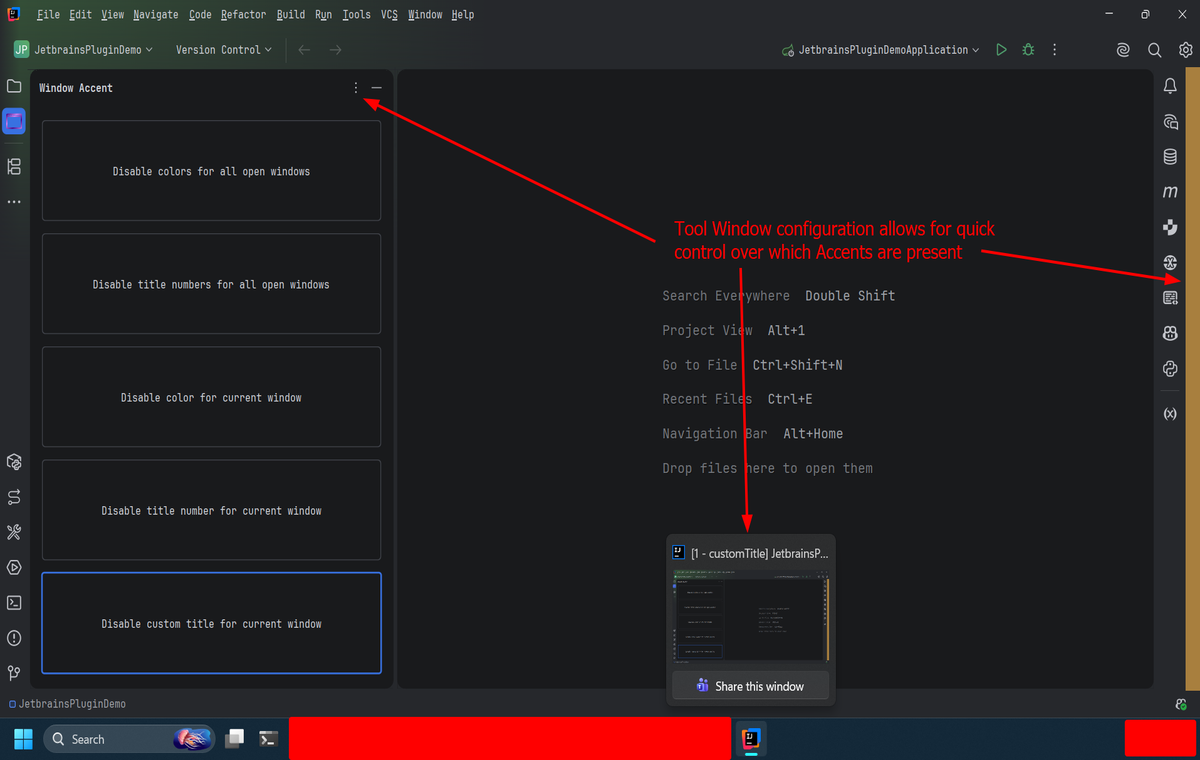
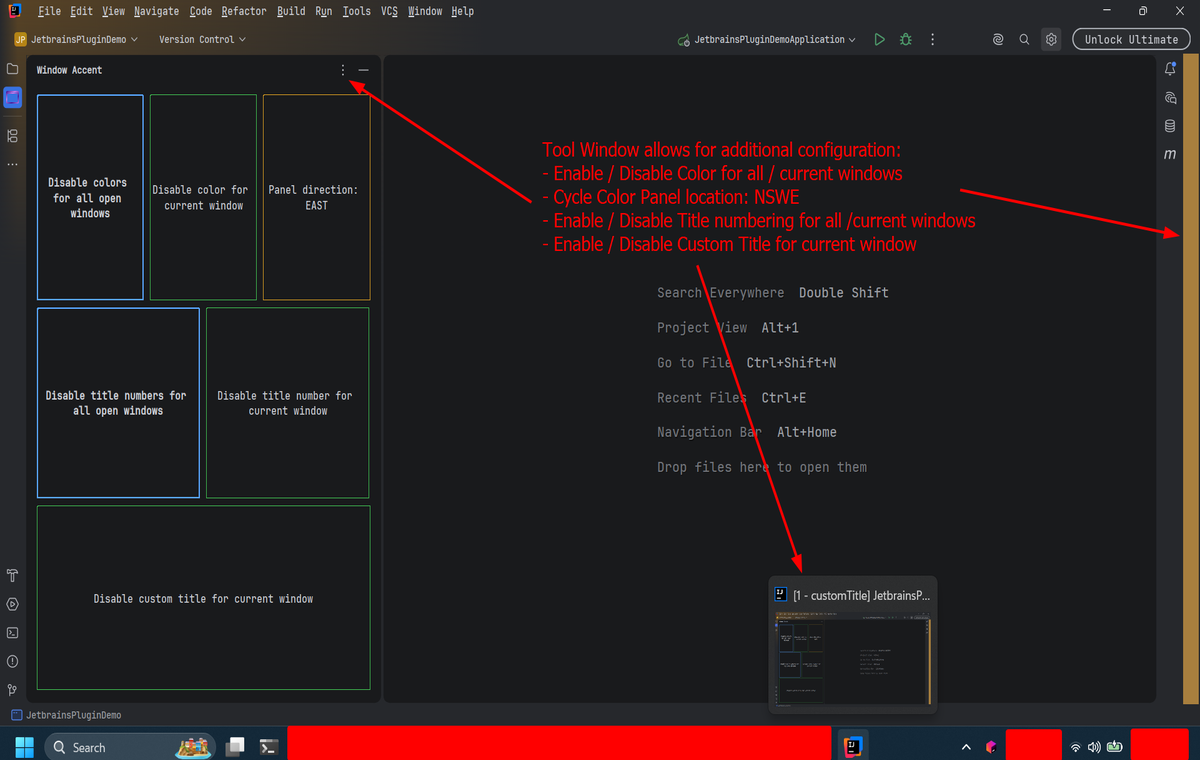
Task/allow choose color panel direction in tool window (#61)
* Github Copilot: Add button to Tool Window to cycle between Panel locations and reorganise tool window button locations

* Github Copilot: ensure that tool window text wraps in button

* Add tooltip to switch panel direction button

* Github Copilot: Improve Tool Window Button meaning by coloring and stylising the buttons to match the purpose

* Update Screenshot of the Tool Window Settings

* Update Changelog

diff --git a/src/main/kotlin/com/window_accent/configuration/tool_window/WindowAccentToolWindowFactory.kt b/src/main/kotlin/com/window_accent/configuration/tool_window/WindowAccentToolWindowFactory.kt
@@ -4,14 +4,20 @@ import com.intellij.openapi.project.DumbAware
 import com.intellij.openapi.project.Project
 import com.intellij.openapi.wm.ToolWindow
 import com.intellij.openapi.wm.ToolWindowFactory
+import com.intellij.ui.JBColor
 import com.intellij.ui.content.ContentFactory
 import com.window_accent.configuration.persistence.WindowCustomTitleStateService
 import com.window_accent.configuration.persistence.WindowPanelAppearanceStateService
+import com.window_accent.configuration.persistence.WindowPanelAppearanceStateService.Side
 import com.window_accent.configuration.persistence.WindowTitleNumberingStateService
 import com.window_accent.feature.window_color.WindowColorApplier
 import com.window_accent.feature.window_title.WindowTitleApplier
+import java.awt.Color
+import java.awt.Font
 import java.awt.GridLayout
 import javax.swing.BorderFactory
+import javax.swing.Box
+import javax.swing.BoxLayout
 import javax.swing.JButton
 import javax.swing.JPanel
 
@@ -20,51 +26,73 @@ import javax.swing.JPanel
  *
  * In IntelliJ terminology:
  *
- * - “Smart mode” = indexes are ready, PSI/model analysis works normally
- * - “Dumb mode” = the IDE is still indexing, so many code-analysis features are temporarily unavailable
+ * - "Smart mode" = indexes are ready, PSI/model analysis works normally
+ * - "Dumb mode" = the IDE is still indexing, so many code-analysis features are temporarily unavailable
  *
  * When your class implements DumbAware, you're telling the IDE:
  *
- * “This component can safely run even while the IDE is indexing.”
+ * "This component can safely run even while the IDE is indexing."
  *
  * @see DumbAware
  * */
 class WindowAccentToolWindowFactory : ToolWindowFactory, DumbAware {
+
+    /** Cycle order for the panel direction button: N → S → W → E → N */
+    private val sidesCycleOrder = listOf(Side.NORTH, Side.SOUTH, Side.WEST, Side.EAST)
 
     override fun createToolWindowContent(project: Project, toolWindow: ToolWindow) {
         val colorSettings = project.getService(WindowPanelAppearanceStateService::class.java)
         val titleSettings = project.getService(WindowTitleNumberingStateService::class.java)
         val customTitleSettings = project.getService(WindowCustomTitleStateService::class.java)
 
-        val panel = JPanel(GridLayout(0, 1, 8, 8))
+        val panel = JPanel()
+        panel.layout = BoxLayout(panel, BoxLayout.Y_AXIS)
         panel.border = BorderFactory.createEmptyBorder(12, 12, 12, 12)
 
         val toggleAllColorsButton = JButton()
-        val toggleAllTitlesButton = JButton()
         val toggleCurrentColorButton = JButton()
+        val cyclePanelDirectionButton = JButton()
+
+        val toggleAllTitlesButton = JButton()
         val toggleCurrentTitleButton = JButton()
+
         val toggleCurrentCustomTitleButton = JButton()
 
+        styleAsAllButton(toggleAllColorsButton)
+        styleAsAllButton(toggleAllTitlesButton)
+        styleAsCurrentButton(toggleCurrentColorButton)
+        styleAsCurrentButton(toggleCurrentTitleButton)
+        styleAsCurrentButton(toggleCurrentCustomTitleButton)
+        styleAsCycleButton(cyclePanelDirectionButton)
+
         fun refreshButtonText() {
-            toggleAllColorsButton.text =
-                if (colorSettings.panelIsEnabled()) "Disable colors for all open windows"
-                else "Enable colors for all open windows"
-
-            toggleAllTitlesButton.text =
-                if (titleSettings.isTitleNumberingEnabled()) "Disable title numbers for all open windows"
-                else "Enable title numbers for all open windows"
-
-            toggleCurrentColorButton.text =
-                if (colorSettings.panelIsEnabled()) "Disable color for current window"
+            val colorsEnabled = colorSettings.panelIsEnabled()
+            toggleAllColorsButton.text = wrapTextInHtmlCenter(
+                if (colorsEnabled) "Disable colors for <b>all</b> open windows"
+                else "Enable colors for <b>all</b> open windows"
+            )
+            toggleCurrentColorButton.text = wrapTextInHtmlCenter(
+                if (colorsEnabled) "Disable color for current window"
                 else "Enable color for current window"
+            )
 
-            toggleCurrentTitleButton.text =
-                if (titleSettings.isTitleNumberingEnabled()) "Disable title number for current window"
+            cyclePanelDirectionButton.text = wrapTextInHtmlCenter("Panel direction: ${colorSettings.getSide()}")
+            cyclePanelDirectionButton.toolTipText = "Click Me! Cycle the color panel location"
+
+            val titlesEnabled = titleSettings.isTitleNumberingEnabled()
+            toggleAllTitlesButton.text = wrapTextInHtmlCenter(
+                if (titlesEnabled) "Disable title numbers for <b>all</b> open windows"
+                else "Enable title numbers for <b>all</b> open windows"
+            )
+            toggleCurrentTitleButton.text = wrapTextInHtmlCenter(
+                if (titlesEnabled) "Disable title number for current window"
                 else "Enable title number for current window"
+            )
 
-            toggleCurrentCustomTitleButton.text =
+            toggleCurrentCustomTitleButton.text = wrapTextInHtmlCenter(
                 if (customTitleSettings.isCustomTitleEnabled()) "Disable custom title for current window"
                 else "Enable custom title for current window"
+            )
         }
 
         toggleAllColorsButton.addActionListener {
@@ -74,17 +102,25 @@ class WindowAccentToolWindowFactory : ToolWindowFactory, DumbAware {
             refreshButtonText()
         }
 
-        toggleAllTitlesButton.addActionListener {
-            val enabled = titleSettings.isTitleNumberingDisabled()
-            titleSettings.setTitleNumberingEnabled(enabled)
-            WindowTitleApplier.applyToAllOpenProjects(enabled)
-            refreshButtonText()
-        }
-
         toggleCurrentColorButton.addActionListener {
             val enabled = colorSettings.panelIsDisabled()
             colorSettings.setPanelEnabled(enabled)
             WindowColorApplier.applyToCurrentOpenProject(project)
+            refreshButtonText()
+        }
+
+        cyclePanelDirectionButton.addActionListener {
+            val currentIndex = sidesCycleOrder.indexOf(colorSettings.getSide())
+            val nextSide = sidesCycleOrder[(currentIndex + 1) % sidesCycleOrder.size]
+            colorSettings.setSide(nextSide)
+            WindowColorApplier.applyToCurrentOpenProject(project)
+            refreshButtonText()
+        }
+
+        toggleAllTitlesButton.addActionListener {
+            val enabled = titleSettings.isTitleNumberingDisabled()
+            titleSettings.setTitleNumberingEnabled(enabled)
+            WindowTitleApplier.applyToAllOpenProjects(enabled)
             refreshButtonText()
         }
 
@@ -104,13 +140,62 @@ class WindowAccentToolWindowFactory : ToolWindowFactory, DumbAware {
 
         refreshButtonText()
 
-        panel.add(toggleAllColorsButton)
-        panel.add(toggleAllTitlesButton)
-        panel.add(toggleCurrentColorButton)
-        panel.add(toggleCurrentTitleButton)
-        panel.add(toggleCurrentCustomTitleButton)
+        panel.add(buildButtonRow(toggleAllColorsButton, toggleCurrentColorButton, cyclePanelDirectionButton))
+        panel.add(Box.createVerticalStrut(8))
+        panel.add(buildButtonRow(toggleAllTitlesButton, toggleCurrentTitleButton))
+        panel.add(Box.createVerticalStrut(8))
+        panel.add(buildButtonRow(toggleCurrentCustomTitleButton))
 
         val content = ContentFactory.getInstance().createContent(panel, "", false)
         toolWindow.contentManager.addContent(content)
+    }
+
+    /**
+     * Wraps [text] in an HTML centre block so that Swing renders it with
+     * automatic word-wrapping when the button is narrower than the full label.
+     */
+    private fun wrapTextInHtmlCenter(text: String) = "<html><center>$text</center></html>"
+
+    /**
+     * Styles a button that operates on **all** open windows.
+     *
+     * Applies a steel-blue border (theme-aware via [JBColor]) and bold font
+     * to visually signal wide-impact actions.
+     */
+    private fun styleAsAllButton(button: JButton) {
+        val borderColor = JBColor(Color(0x4682B4), Color(0x58A6FF))
+        button.border = BorderFactory.createLineBorder(borderColor, 2, true)
+        button.font = button.font.deriveFont(Font.BOLD)
+    }
+
+    /**
+     * Styles a button that operates on the **current** window only.
+     *
+     * Applies a muted-green border (theme-aware via [JBColor]) to signal
+     * a scoped, lower-impact action.
+     */
+    private fun styleAsCurrentButton(button: JButton) {
+        val borderColor = JBColor(Color(0x5A8A5A), Color(0x3FB950))
+        button.border = BorderFactory.createLineBorder(borderColor, 1, true)
+    }
+
+    /**
+     * Styles the cycle-direction button.
+     *
+     * Applies a warm-amber border (theme-aware via [JBColor]) to distinguish
+     * it as a mode/configuration control rather than an enable/disable toggle.
+     */
+    private fun styleAsCycleButton(button: JButton) {
+        val borderColor = JBColor(Color(0xB8860B), Color(0xD29922))
+        button.border = BorderFactory.createLineBorder(borderColor, 1, true)
+    }
+
+    /**
+     * Creates a horizontal row of buttons that each fill an equal share of the available width.
+     */
+    private fun buildButtonRow(vararg buttons: JButton): JPanel {
+        val row = JPanel(GridLayout(1, buttons.size, 8, 0))
+        buttons.forEach { row.add(it) }
+        return row
     }
 }

diff --git a/CHANGELOG.md b/CHANGELOG.md
@@ -10,6 +10,11 @@
   - Leverage header tags and emojis to improve readability
   - Review phrasing of description
 
+### Added
+
+- Brought in a button in the Tool Window to cycle Color Panel Location
+  - One can now quickly set the location of the Color Panel: NSWE
+
 ## [1.1.0]
 
 ### Added